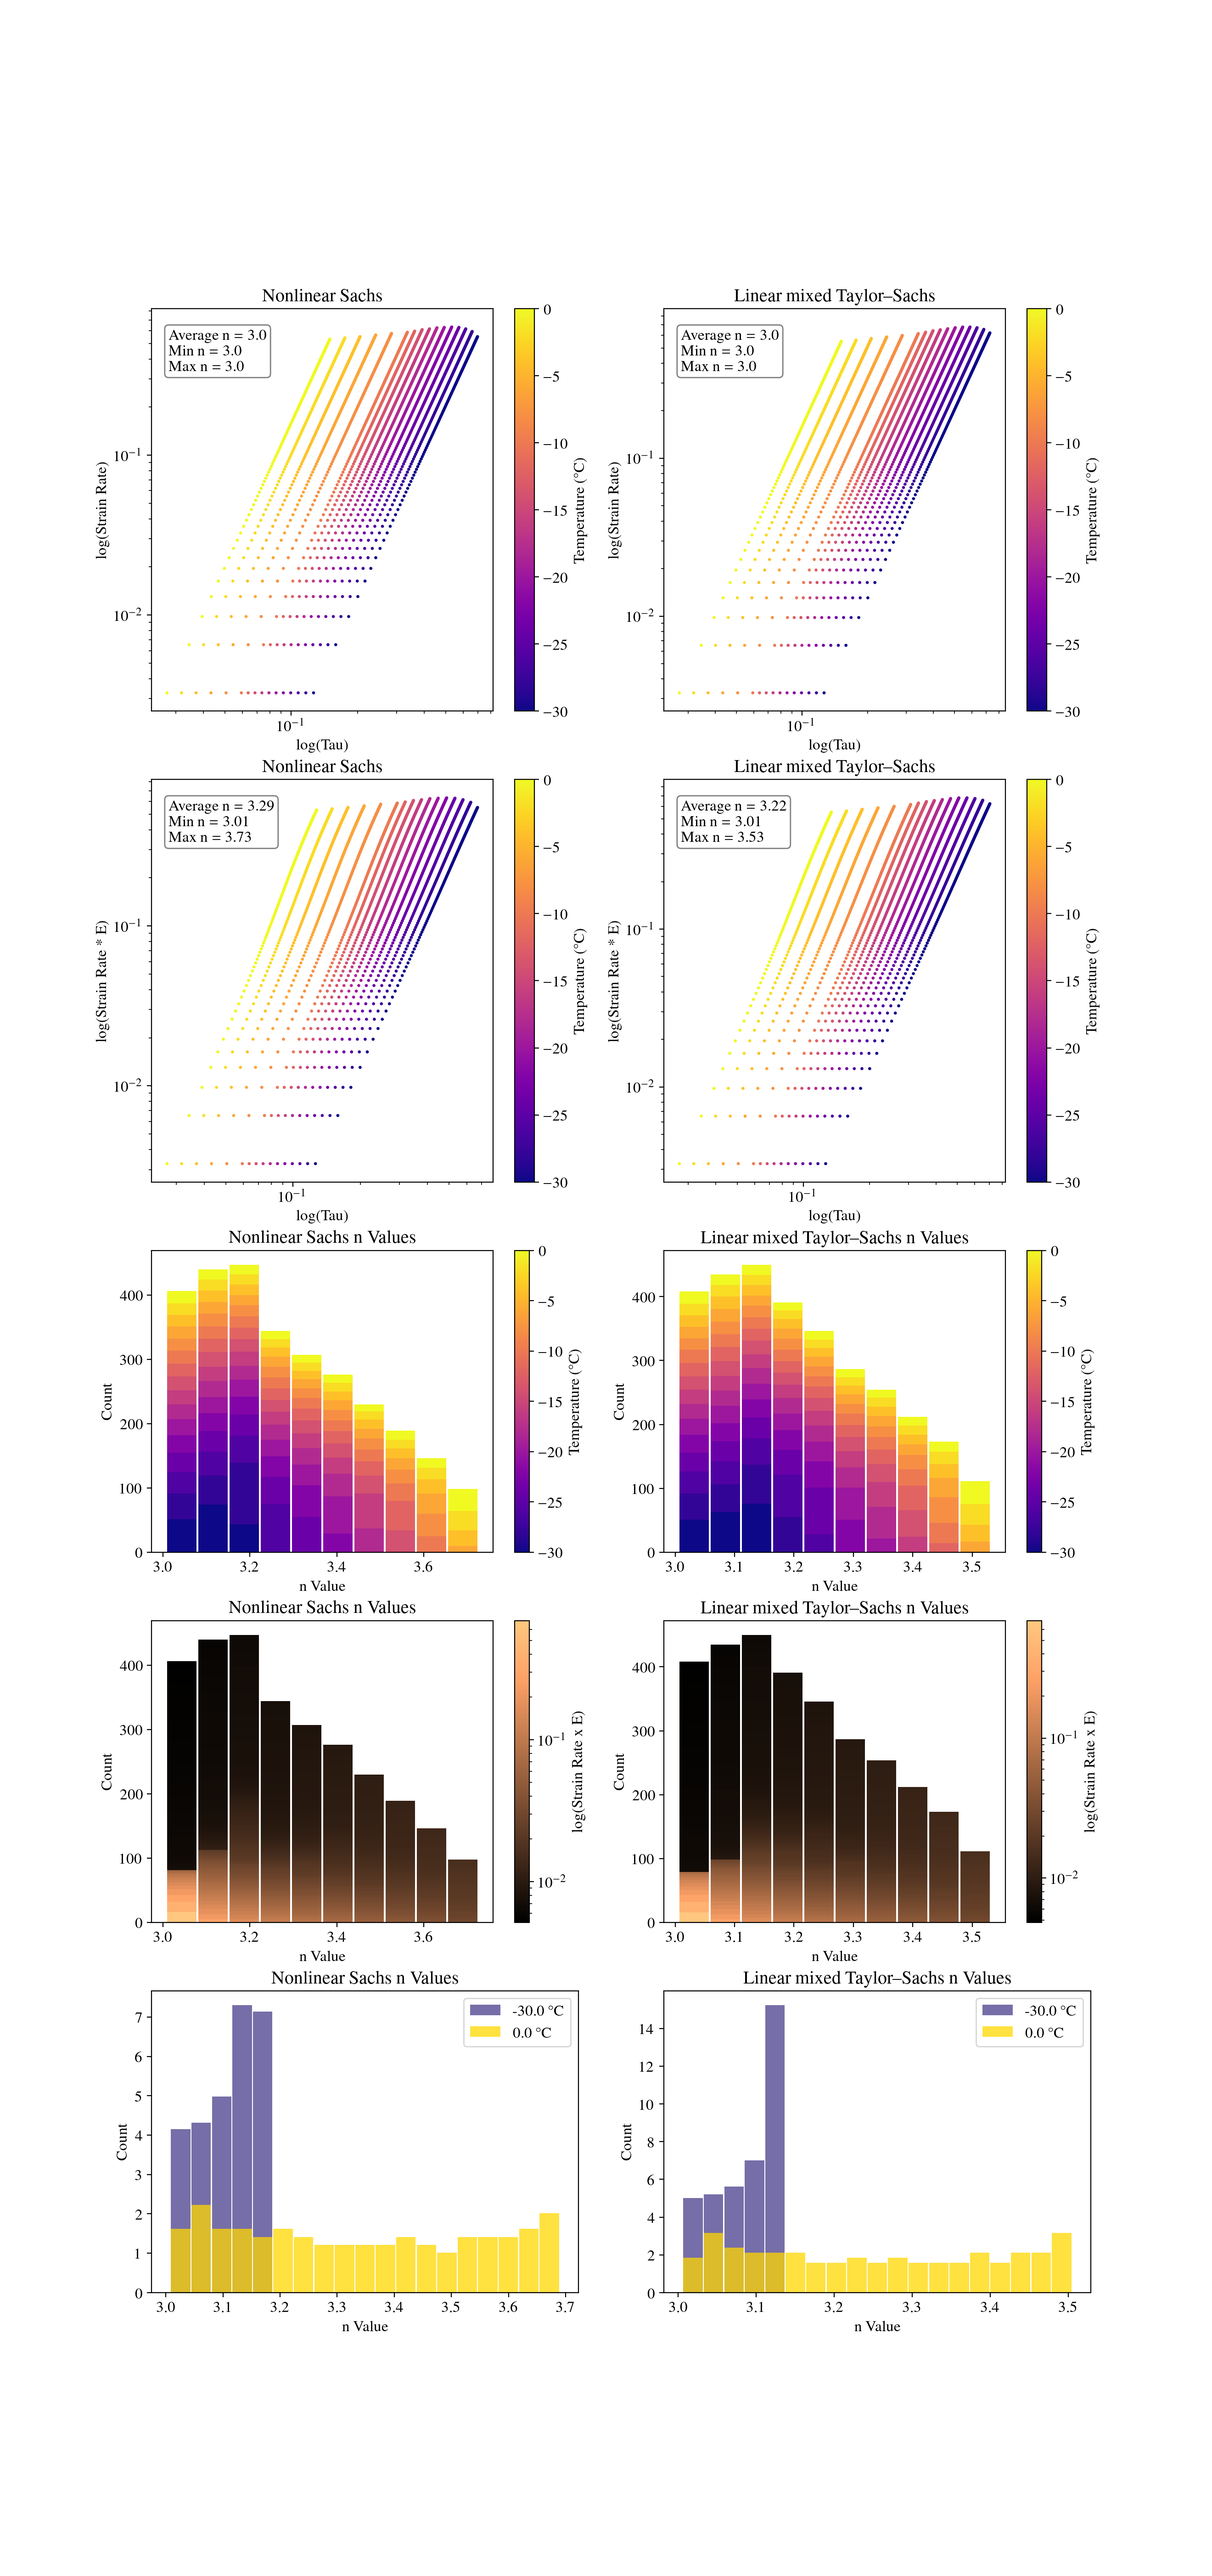
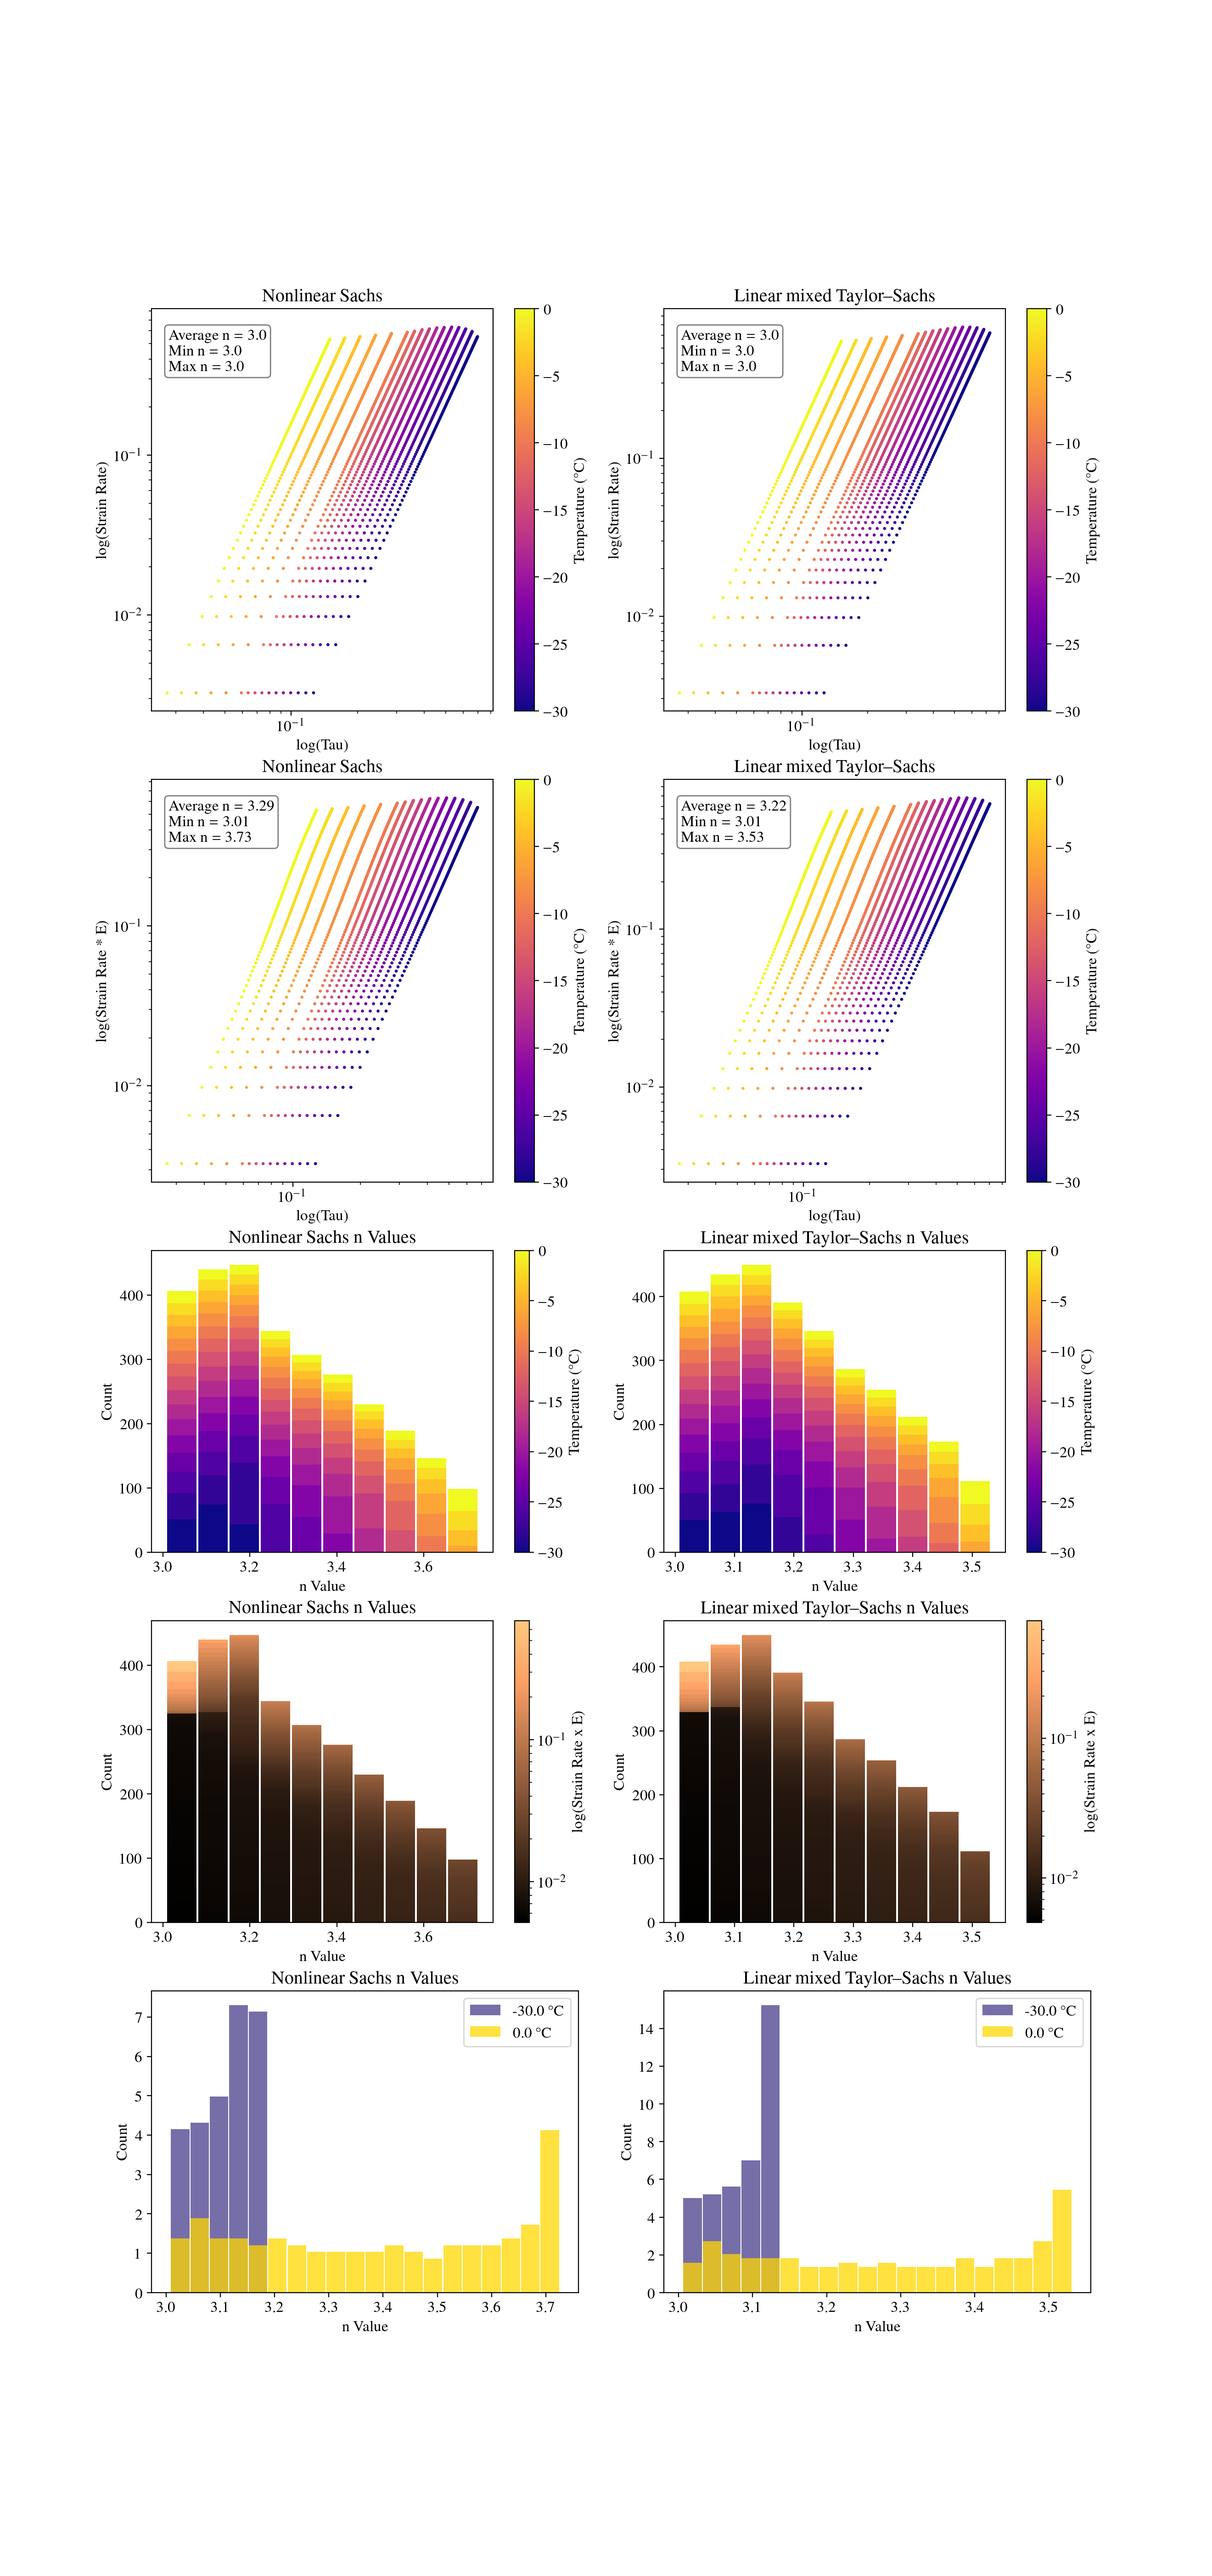
fixed reversed color bar on pressure rip me

diff --git a/L20/rh-comp.py b/L20/rh-comp.py
@@ -148,7 +148,7 @@ def n_hist(fig, ax, ns, Etype, which_ns = 'temp'):
     datas = []
     temps = []
 
-    for t in ns[which_ns].unique():
+    for t in np.sort(ns[which_ns].unique()):
         temps.append(t)
         datas.append(ns.ns[ns[which_ns] == t])
         
@@ -243,6 +243,6 @@ for x in EXP_TYPE:
         scope.append(e1)
 
 
-    plot_all_enhancement(scope, strain_over_time, balanced_average="individual", cutoff=False, fname=x)
+    plot_all_enhancement(scope, strain_over_time, balanced_average="individual", cutoff=True, fname=x)
     scope = []
 
